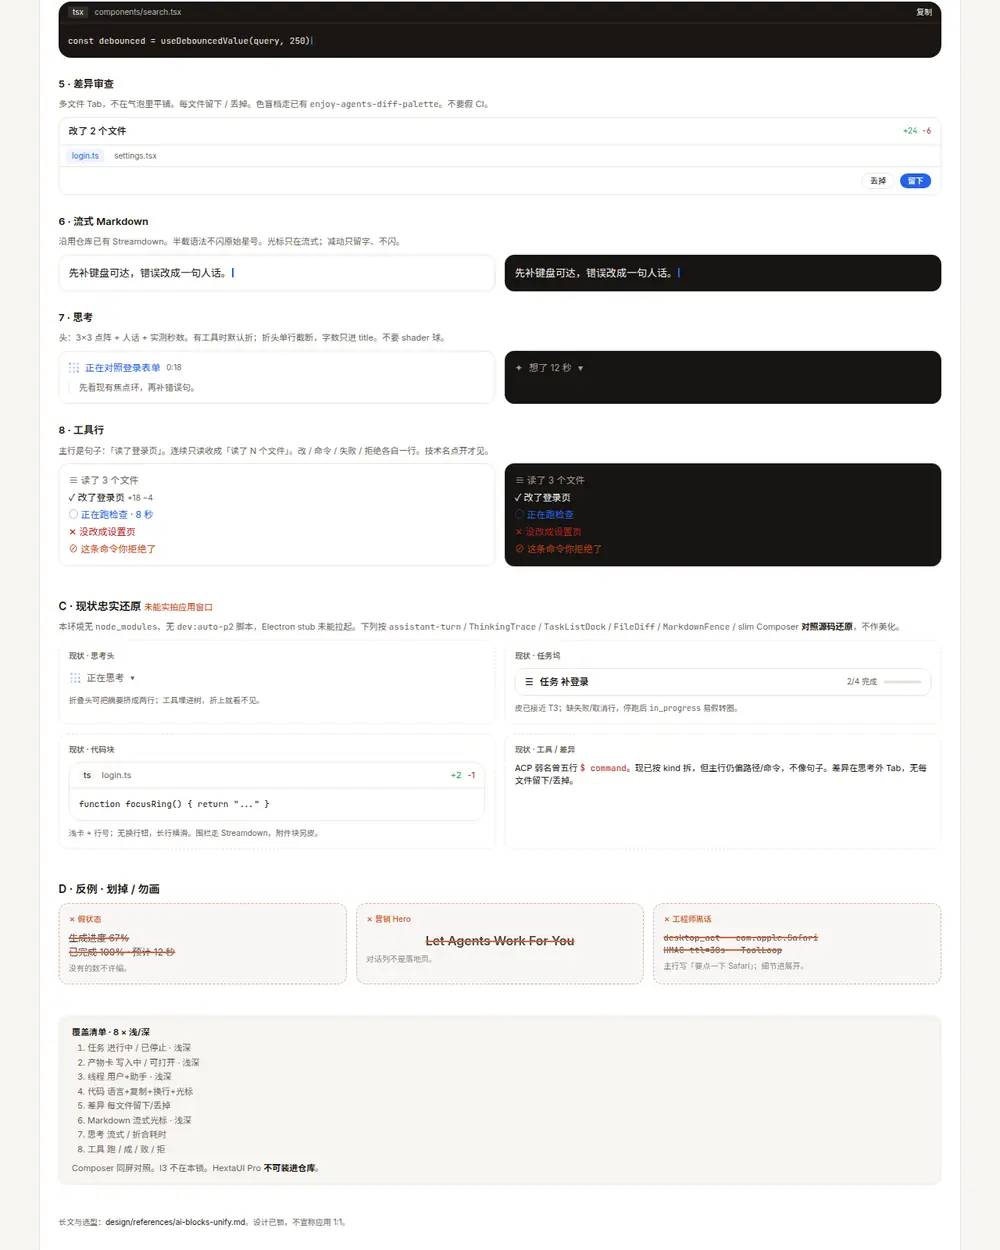
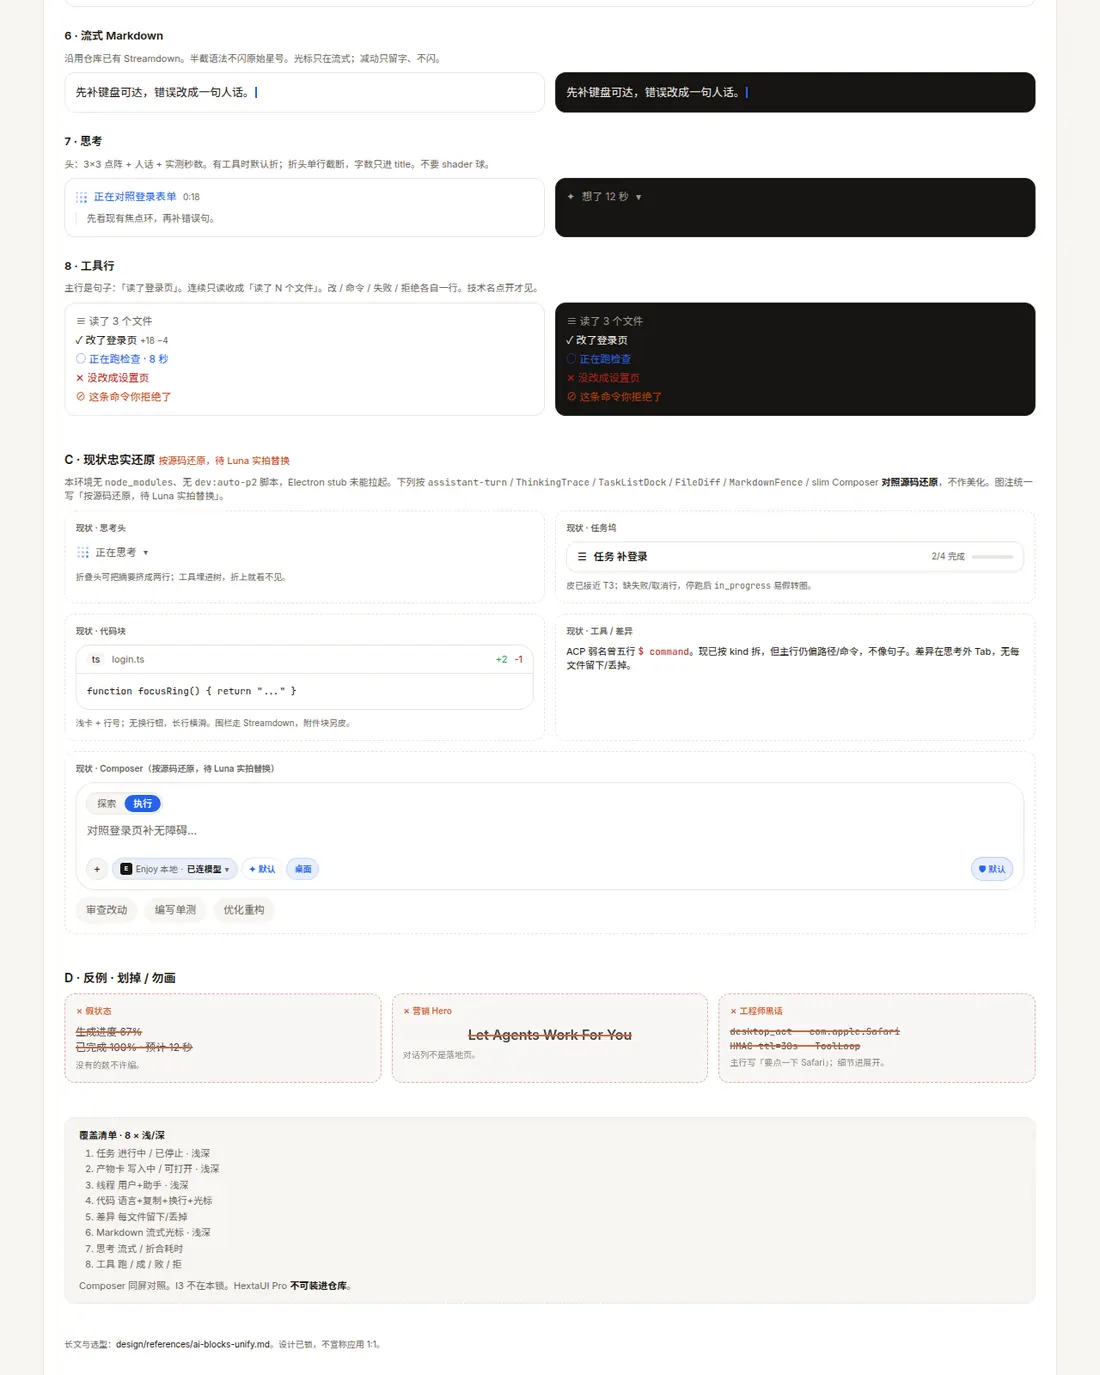
design(ai-blocks): 对齐现网 Composer 铬条并收起产物版本
预览 Composer 按 footer 源码还原 Enjoy 本地胶囊、默认审批、桌面芯片与空态 pill；产物默认卡去掉版本号；现状图统一标待实拍替换。

diff --git a/design/previews/ai-blocks-unify.html b/design/previews/ai-blocks-unify.html
@@ -60,7 +60,7 @@ tailwind.config = {
       <p class="font-semibold text-ink">锁 · 8 块重做 · 输入盒原样</p>
       <ul class="mt-1 list-disc space-y-1 pl-4">
         <li>重做：任务 / 产物卡 / 对话线程 / 代码块 / 差异审查 / 流式 Markdown / 思考 / 工具行</li>
-        <li>Composer 铬条 1:1 现网：圆角 22、探索\|执行顶栏、底栏引擎芯片 + 思考小档 + 发送。禁止改输入盒。</li>
+        <li>Composer 铬条 1:1 现网：圆角 22、探索\|执行顶栏；底栏按 <code>composer-footer.tsx</code>：<strong class="text-ink">Enjoy 本地 · 已连模型</strong>、思考档「默认」、CU 就绪「桌面」、审批盾；盒下空态 pill（审查改动 / 编写单测 / 优化重构）。禁止编 Grok / 模型号。禁止改输入盒。</li>
         <li>C 端：无人话表面摊 <code>desktop_act</code> / bundle id / TTL / HMAC；假进度%、假「已完成 100%」一律划掉</li>
         <li>HextaUI Pro 块<strong class="text-ink">仅参考，不可取用源码</strong>（Pro License）。抄交互再 restyle。</li>
       </ul>
@@ -155,7 +155,7 @@ tailwind.config = {
             <span class="flex size-8 items-center justify-center rounded-lg bg-soft text-[12px] text-accent">▣</span>
             <span class="min-w-0 flex-1">
               <span class="block text-[12px] font-medium">登录页预览</span>
-              <span class="block text-[10px] text-mute">网页 · 第 2 版 · 在右侧打开</span>
+              <span class="block text-[10px] text-mute">网页 · 在右侧打开</span>
             </span>
             <span class="text-[10px] text-accent">打开</span>
           </button>
@@ -177,29 +177,42 @@ tailwind.config = {
             </ul>
           </div>
 
-          <!-- CURRENT COMPOSER — do not restyle -->
-          <div class="rounded-[22px] border border-line bg-card p-2 shadow-sm" data-composer="current">
-            <div class="flex items-center px-1 pt-0.5">
-              <div class="inline-flex rounded-full bg-paper p-0.5 ring-1 ring-line">
-                <span class="rounded-full px-2.5 py-0.5 text-[11px] text-mute">探索</span>
-                <span class="rounded-full bg-accent px-2.5 py-0.5 text-[11px] font-semibold text-white">执行</span>
+          <!-- CURRENT COMPOSER — source-faithful; do not restyle -->
+          <div class="space-y-2" data-composer="current">
+            <div class="rounded-[22px] border border-line bg-card pt-2 shadow-sm">
+              <div class="flex items-center px-3 pt-1 pb-0.5">
+                <div class="inline-flex rounded-full bg-paper p-0.5 ring-1 ring-line">
+                  <span class="rounded-full px-2.5 py-0.5 text-[11px] text-mute">探索</span>
+                  <span class="rounded-full bg-accent px-2.5 py-0.5 text-[11px] font-semibold text-white">执行</span>
+                </div>
+              </div>
+              <div class="min-h-[52px] px-3 py-2 text-[13px] text-mute">对照登录页补无障碍…</div>
+              <div class="flex min-w-0 flex-wrap items-center justify-between gap-x-1 gap-y-1.5 px-3 pt-1 pb-2.5">
+                <div class="flex min-w-0 flex-wrap items-center gap-1.5">
+                  <span class="flex size-6 items-center justify-center rounded-full bg-paper text-[12px] ring-1 ring-line">+</span>
+                  <span class="inline-flex h-6 max-w-[16rem] items-center gap-1 overflow-hidden rounded-full border border-line bg-accent/10 px-2 text-[10px] ring-1 ring-accent/20">
+                    <span class="flex size-3.5 shrink-0 items-center justify-center rounded-[3px] bg-ink text-[7px] font-bold text-white">E</span>
+                    <span class="shrink-0 text-mute">Enjoy 本地</span>
+                    <span class="text-mute">·</span>
+                    <span class="min-w-0 truncate font-semibold">已连模型</span>
+                    <span class="text-mute">▾</span>
+                  </span>
+                  <span class="inline-flex h-6 items-center gap-1 rounded-full px-2 text-[10px] font-semibold text-accent ring-1 ring-line/80">✦ 默认</span>
+                  <span class="inline-flex h-6 items-center rounded-full bg-accent/10 px-2 text-[10px] font-semibold text-accent ring-1 ring-accent/25">桌面</span>
+                </div>
+                <div class="ml-auto flex items-center gap-1">
+                  <span class="inline-flex h-7 items-center gap-1.5 rounded-full border border-accent/25 bg-accent/10 px-2 text-[10px] font-medium text-accent">🛡 默认</span>
+                  <span class="flex size-7 items-center justify-center rounded-full bg-accent text-[11px] font-semibold text-white">↑</span>
+                </div>
               </div>
             </div>
-            <div class="mt-1.5 min-h-[52px] rounded-xl px-3 py-2 text-[13px] text-mute">对照登录页补无障碍…</div>
-            <div class="mt-1 flex items-center justify-between px-1 pb-1">
-              <div class="flex items-center gap-1.5">
-                <span class="flex size-6 items-center justify-center rounded-full bg-paper text-[12px] ring-1 ring-line">+</span>
-                <span class="inline-flex items-center gap-1.5 rounded-full bg-soft px-2 py-0.5 text-[10px] ring-1 ring-accent/30">
-                  <span class="inline-flex size-[14px] items-center justify-center rounded-[4px] bg-ink text-[8px] font-bold text-white">G</span>
-                  <span class="text-mute">Grok</span><span class="text-mute">·</span><span class="font-semibold">4.6</span>
-                </span>
-                <span class="inline-flex items-center gap-1 rounded-full bg-paper px-2 py-0.5 text-[10px] ring-1 ring-line">✦ 中</span>
-                <span class="flex size-6 items-center justify-center rounded-full bg-paper text-[11px] ring-1 ring-line">🛡</span>
-              </div>
-              <span class="flex size-7 items-center justify-center rounded-full bg-accent text-[11px] font-semibold text-white">↑</span>
+            <div class="flex flex-wrap items-center justify-center gap-2">
+              <span class="inline-flex items-center gap-2 rounded-full bg-paper px-3 py-1.5 text-[12px] text-mute">审查改动</span>
+              <span class="inline-flex items-center gap-2 rounded-full bg-paper px-3 py-1.5 text-[12px] text-mute">编写单测</span>
+              <span class="inline-flex items-center gap-2 rounded-full bg-paper px-3 py-1.5 text-[12px] text-mute">优化重构</span>
             </div>
           </div>
-          <p class="text-center text-[10px] text-mute">↑ 现网 Composer 忠实还原（slim 锁）。8 块必须贴得上，不许另起一套铬。</p>
+          <p class="text-center text-[10px] text-mute">↑ 现网 Composer 按源码还原：引擎胶囊 <code>Enjoy 本地 · 已连模型</code>（不编模型名）、思考/审批「默认」、CU 就绪「桌面」、盒下空态 pill。8 块必须贴得上。</p>
         </div>
       </div>
     </section>
@@ -235,18 +248,38 @@ tailwind.config = {
               <button type="button" class="rounded-full bg-accent px-2.5 py-0.5 text-[10px] font-semibold text-white">留下</button>
             </div>
           </div>
-          <div class="rounded-[22px] border border-night-line bg-night-card p-2">
-            <div class="inline-flex rounded-full bg-night-paper p-0.5 ring-1 ring-night-line">
-              <span class="rounded-full px-2.5 py-0.5 text-[11px] text-night-mute">探索</span>
-              <span class="rounded-full bg-accent px-2.5 py-0.5 text-[11px] font-semibold text-white">执行</span>
+          <div class="space-y-2" data-composer="current">
+            <div class="rounded-[22px] border border-night-line bg-night-card pt-2">
+              <div class="flex items-center px-3 pt-1 pb-0.5">
+                <div class="inline-flex rounded-full bg-night-paper p-0.5 ring-1 ring-night-line">
+                  <span class="rounded-full px-2.5 py-0.5 text-[11px] text-night-mute">探索</span>
+                  <span class="rounded-full bg-accent px-2.5 py-0.5 text-[11px] font-semibold text-white">执行</span>
+                </div>
+              </div>
+              <div class="min-h-[48px] px-3 py-2 text-[13px] text-night-mute">按文件留下或丢掉…</div>
+              <div class="flex min-w-0 flex-wrap items-center justify-between gap-x-1 gap-y-1.5 px-3 pt-1 pb-2.5">
+                <div class="flex min-w-0 flex-wrap items-center gap-1.5">
+                  <span class="flex size-6 items-center justify-center rounded-full bg-night-paper text-[12px] ring-1 ring-night-line">+</span>
+                  <span class="inline-flex h-6 max-w-[16rem] items-center gap-1 overflow-hidden rounded-full border border-night-line bg-accent/10 px-2 text-[10px] ring-1 ring-accent/20">
+                    <span class="flex size-3.5 shrink-0 items-center justify-center rounded-[3px] bg-night-ink text-[7px] font-bold text-night-paper">E</span>
+                    <span class="shrink-0 text-night-mute">Enjoy 本地</span>
+                    <span class="text-night-mute">·</span>
+                    <span class="min-w-0 truncate font-semibold">已连模型</span>
+                    <span class="text-night-mute">▾</span>
+                  </span>
+                  <span class="inline-flex h-6 items-center gap-1 rounded-full px-2 text-[10px] font-semibold text-accent ring-1 ring-night-line">✦ 默认</span>
+                  <span class="inline-flex h-6 items-center rounded-full bg-accent/10 px-2 text-[10px] font-semibold text-accent ring-1 ring-accent/25">桌面</span>
+                </div>
+                <div class="ml-auto flex items-center gap-1">
+                  <span class="inline-flex h-7 items-center gap-1.5 rounded-full border border-accent/25 bg-accent/10 px-2 text-[10px] font-medium text-accent">🛡 默认</span>
+                  <span class="flex size-7 items-center justify-center rounded-full bg-accent text-[11px] font-semibold text-white">↑</span>
+                </div>
+              </div>
             </div>
-            <div class="mt-1.5 min-h-[48px] px-3 py-2 text-[13px] text-night-mute">按文件留下或丢掉…</div>
-            <div class="flex items-center justify-between px-1 pb-1">
-              <span class="inline-flex items-center gap-1.5 rounded-full bg-accent/10 px-2 py-0.5 text-[10px] ring-1 ring-accent/30">
-                <span class="inline-flex size-[14px] items-center justify-center rounded-[4px] bg-night-ink text-[8px] font-bold text-night-paper">G</span>
-                Grok · 4.6
-              </span>
-              <span class="flex size-7 items-center justify-center rounded-full bg-accent text-[11px] font-semibold text-white">↑</span>
+            <div class="flex flex-wrap items-center justify-center gap-2">
+              <span class="inline-flex items-center gap-2 rounded-full bg-night-paper px-3 py-1.5 text-[12px] text-night-mute">审查改动</span>
+              <span class="inline-flex items-center gap-2 rounded-full bg-night-paper px-3 py-1.5 text-[12px] text-night-mute">编写单测</span>
+              <span class="inline-flex items-center gap-2 rounded-full bg-night-paper px-3 py-1.5 text-[12px] text-night-mute">优化重构</span>
             </div>
           </div>
         </div>
@@ -289,15 +322,30 @@ tailwind.config = {
       <!-- Artifact -->
       <article class="space-y-2">
         <h3 class="text-[13px] font-semibold">2 · 产物（Artifact）</h3>
-        <p class="text-[11px] text-mute">对话里只留一张卡；预览进右侧审查栏，不在气泡里嵌整页。流式写代码，写完才切预览。版本在展开后。</p>
+        <p class="text-[11px] text-mute">对话里只留一张卡；预览进右侧审查栏，不在气泡里嵌整页。流式写代码，写完才切预览。<strong class="text-ink">默认卡不写版本号</strong>——「第 N 版」暗示时间线，还是开放问题。</p>
         <div class="grid gap-3 md:grid-cols-2">
+          <div class="rounded-xl border border-line p-3">
+            <p class="mb-2 text-[10px] font-semibold text-mute">浅 · 默认（无版本）</p>
+            <div class="flex items-center gap-3 rounded-xl border border-line bg-card px-3 py-2">
+              <span class="flex size-8 items-center justify-center rounded-lg bg-soft text-accent">▣</span>
+              <div class="min-w-0"><p class="text-[12px] font-medium">价格页</p><p class="text-[10px] text-mute">正在写入 · 还不能预览</p></div>
+            </div>
+          </div>
+          <div class="night rounded-xl border border-night-line p-3">
+            <p class="mb-2 text-[10px] font-semibold text-night-mute">深 · 默认（无版本）</p>
+            <div class="flex items-center gap-3 rounded-xl border border-night-line bg-night-card px-3 py-2">
+              <span class="flex size-8 items-center justify-center rounded-lg bg-accent/20 text-accent">▣</span>
+              <div class="min-w-0"><p class="text-[12px] font-medium">价格页</p><p class="text-[10px] text-night-mute">网页 · 在右侧打开</p></div>
+              <span class="ml-auto text-[10px] text-accent">打开</span>
+            </div>
+          </div>
+        </div>
+        <div class="rounded-xl border border-dashed border-line bg-paper p-3">
+          <p class="mb-2 text-[10px] font-semibold uppercase tracking-wide text-warn">待定变体 · 不进默认</p>
+          <p class="mb-2 text-[11px] text-mute">版本时间线仍是开放问题。若 jojo 确认要版本，才用这张副行；默认卡禁止「第 2 版」。</p>
           <div class="flex items-center gap-3 rounded-xl border border-line bg-card px-3 py-2">
             <span class="flex size-8 items-center justify-center rounded-lg bg-soft text-accent">▣</span>
-            <div class="min-w-0"><p class="text-[12px] font-medium">价格页</p><p class="text-[10px] text-mute">正在写入 · 还不能预览</p></div>
-          </div>
-          <div class="night flex items-center gap-3 rounded-xl border border-night-line bg-night-card px-3 py-2">
-            <span class="flex size-8 items-center justify-center rounded-lg bg-accent/20 text-accent">▣</span>
-            <div class="min-w-0"><p class="text-[12px] font-medium">价格页</p><p class="text-[10px] text-night-mute">第 2 版 · 打开在右侧</p></div>
+            <div class="min-w-0"><p class="text-[12px] font-medium">价格页</p><p class="text-[10px] text-mute">网页 · 第 2 版 · 在右侧打开</p></div>
             <span class="ml-auto text-[10px] text-accent">打开</span>
           </div>
         </div>
@@ -397,8 +445,8 @@ tailwind.config = {
 
     <!-- Current faithful -->
     <section class="space-y-2" id="current-faithful">
-      <h2 class="text-[14px] font-semibold">C · 现状忠实还原 <span class="text-[11px] font-normal text-warn">未能实拍应用窗口</span></h2>
-      <p class="text-[11px] text-mute">本环境无 <code>node_modules</code>、无 <code>dev:auto-p2</code> 脚本，Electron stub 未能拉起。下列按 <code>assistant-turn</code> / <code>ThinkingTrace</code> / <code>TaskListDock</code> / <code>FileDiff</code> / <code>MarkdownFence</code> / slim Composer <strong class="text-ink">对照源码还原</strong>，不作美化。</p>
+      <h2 class="text-[14px] font-semibold">C · 现状忠实还原 <span class="text-[11px] font-normal text-warn">按源码还原，待 Luna 实拍替换</span></h2>
+      <p class="text-[11px] text-mute">本环境无 <code>node_modules</code>、无 <code>dev:auto-p2</code> 脚本，Electron stub 未能拉起。下列按 <code>assistant-turn</code> / <code>ThinkingTrace</code> / <code>TaskListDock</code> / <code>FileDiff</code> / <code>MarkdownFence</code> / slim Composer <strong class="text-ink">对照源码还原</strong>，不作美化。图注统一写「按源码还原，待 Luna 实拍替换」。</p>
       <div class="grid gap-3 md:grid-cols-2">
         <div class="rounded-xl border border-dashed border-line p-3">
           <p class="text-[10px] font-semibold text-mute">现状 · 思考头</p>
@@ -427,6 +475,37 @@ tailwind.config = {
         <div class="rounded-xl border border-dashed border-line p-3">
           <p class="text-[10px] font-semibold text-mute">现状 · 工具 / 差异</p>
           <p class="mt-2 text-[11px]">ACP 弱名曾五行 <code class="text-danger">$ command</code>。现已按 kind 拆，但主行仍偏路径/命令，不像句子。差异在思考外 Tab，无每文件留下/丢掉。</p>
+        </div>
+        <div class="rounded-xl border border-dashed border-line p-3 md:col-span-2">
+          <p class="text-[10px] font-semibold text-mute">现状 · Composer（按源码还原，待 Luna 实拍替换）</p>
+          <div class="mt-2 space-y-2">
+            <div class="rounded-[22px] border border-line bg-card pt-2">
+              <div class="flex items-center px-3 pt-1 pb-0.5">
+                <div class="inline-flex rounded-full bg-paper p-0.5 ring-1 ring-line">
+                  <span class="rounded-full px-2.5 py-0.5 text-[11px] text-mute">探索</span>
+                  <span class="rounded-full bg-accent px-2.5 py-0.5 text-[11px] font-semibold text-white">执行</span>
+                </div>
+              </div>
+              <div class="min-h-[44px] px-3 py-2 text-[13px] text-mute">对照登录页补无障碍…</div>
+              <div class="flex min-w-0 flex-wrap items-center justify-between gap-1.5 px-3 pt-1 pb-2.5">
+                <div class="flex min-w-0 flex-wrap items-center gap-1.5">
+                  <span class="flex size-6 items-center justify-center rounded-full bg-paper text-[12px] ring-1 ring-line">+</span>
+                  <span class="inline-flex h-6 items-center gap-1 rounded-full border border-line bg-accent/10 px-2 text-[10px] ring-1 ring-accent/20">
+                    <span class="flex size-3.5 items-center justify-center rounded-[3px] bg-ink text-[7px] font-bold text-white">E</span>
+                    <span class="text-mute">Enjoy 本地</span><span class="text-mute">·</span><span class="font-semibold">已连模型</span><span class="text-mute">▾</span>
+                  </span>
+                  <span class="inline-flex h-6 items-center rounded-full px-2 text-[10px] font-semibold text-accent ring-1 ring-line/80">✦ 默认</span>
+                  <span class="inline-flex h-6 items-center rounded-full bg-accent/10 px-2 text-[10px] font-semibold text-accent ring-1 ring-accent/25">桌面</span>
+                </div>
+                <span class="inline-flex h-7 items-center gap-1.5 rounded-full border border-accent/25 bg-accent/10 px-2 text-[10px] font-medium text-accent">🛡 默认</span>
+              </div>
+            </div>
+            <div class="flex flex-wrap gap-2">
+              <span class="rounded-full bg-paper px-3 py-1.5 text-[12px] text-mute">审查改动</span>
+              <span class="rounded-full bg-paper px-3 py-1.5 text-[12px] text-mute">编写单测</span>
+              <span class="rounded-full bg-paper px-3 py-1.5 text-[12px] text-mute">优化重构</span>
+            </div>
+          </div>
         </div>
       </div>
     </section>
